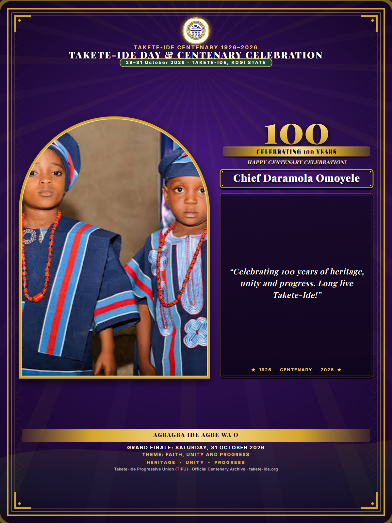
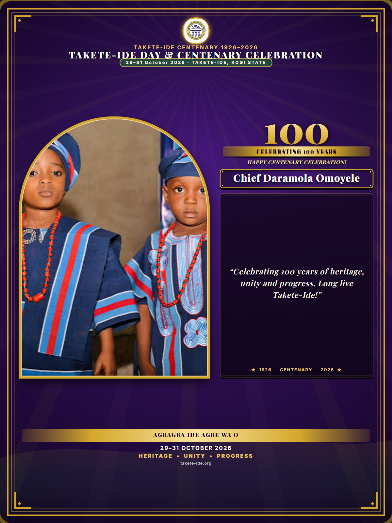
feat(celebration-studio): update 1200x1600 personal celebration poster copy and foundation layout

Changed region(s): [[0.3061, 0.826, 0.7041, 0.9178]]

diff --git a/lib/celebration-studio/poster-renderer.ts b/lib/celebration-studio/poster-renderer.ts
@@ -822,68 +822,62 @@ function drawGrandFoundationRibbons(
   ctx.textAlign = "center";
   ctx.textBaseline = "middle";
 
-  // 1. Curved Gold & Green Ceremonial Ribbon with Local Expression / Motto
-  const expression =
+  // 1. Curved Gold Ceremonial Ribbon with Editable Local Expression / Motto
+  const expression = (
     personalisation.localExpression ||
     personalisation.signOff ||
     template.defaultLocalExpression ||
-    "AGBAGBA IDE AGBE WA O";
+    ""
+  ).trim();
 
-  const ribbonW = width - Math.round(120 * scale);
-  const ribbonH = Math.round(36 * scale);
+  if (expression) {
+    const ribbonW = width - Math.round(120 * scale);
+    const ribbonH = Math.round(36 * scale);
 
-  const ribbonGrad = ctx.createLinearGradient(centerX - ribbonW / 2, 0, centerX + ribbonW / 2, 0);
-  ribbonGrad.addColorStop(0, "rgba(212, 167, 44, 0.15)");
-  ribbonGrad.addColorStop(0.2, "#d4a72c");
-  ribbonGrad.addColorStop(0.5, "#fae39b");
-  ribbonGrad.addColorStop(0.8, "#d4a72c");
-  ribbonGrad.addColorStop(1, "rgba(212, 167, 44, 0.15)");
+    const ribbonGrad = ctx.createLinearGradient(centerX - ribbonW / 2, 0, centerX + ribbonW / 2, 0);
+    ribbonGrad.addColorStop(0, "rgba(212, 167, 44, 0.15)");
+    ribbonGrad.addColorStop(0.2, "#d4a72c");
+    ribbonGrad.addColorStop(0.5, "#fae39b");
+    ribbonGrad.addColorStop(0.8, "#d4a72c");
+    ribbonGrad.addColorStop(1, "rgba(212, 167, 44, 0.15)");
 
-  ctx.fillStyle = ribbonGrad;
-  roundRect(ctx, centerX - ribbonW / 2, currentY, ribbonW, ribbonH, 6 * scale);
-  ctx.fill();
+    ctx.fillStyle = ribbonGrad;
+    roundRect(ctx, centerX - ribbonW / 2, currentY, ribbonW, ribbonH, 6 * scale);
+    ctx.fill();
 
-  ctx.font = `900 ${Math.round(15 * scale)}px "Playfair Display", Georgia, serif`;
-  ctx.fillStyle = "#18062b";
-  ctx.letterSpacing = `${Math.round(2 * scale)}px`;
-  ctx.fillText(expression.toUpperCase(), centerX, currentY + ribbonH / 2);
+    ctx.font = `900 ${Math.round(15 * scale)}px "Playfair Display", Georgia, serif`;
+    ctx.fillStyle = "#18062b";
+    ctx.letterSpacing = `${Math.round(2 * scale)}px`;
+    ctx.fillText(expression.toUpperCase(), centerX, currentY + ribbonH / 2);
 
-  currentY += ribbonH + Math.round(16 * scale);
+    currentY += ribbonH + Math.round(18 * scale);
+  } else {
+    currentY += Math.round(10 * scale);
+  }
 
-  // 2. Grand Finale & Event Date
-  ctx.font = `bold ${Math.round(13.5 * scale)}px Inter, -apple-system, sans-serif`;
+  // 2. Confirmed Event Date: "29–31 OCTOBER 2026"
+  ctx.font = `bold ${Math.round(15 * scale)}px Inter, -apple-system, sans-serif`;
   ctx.fillStyle = "#ffffff";
-  ctx.shadowColor = "rgba(0, 0, 0, 0.8)";
+  ctx.shadowColor = "rgba(0, 0, 0, 0.85)";
   ctx.shadowBlur = 4 * scale;
-  ctx.fillText("GRAND FINALE: SATURDAY, 31 OCTOBER 2026", centerX, currentY);
+  ctx.fillText("29–31 OCTOBER 2026", centerX, currentY);
   ctx.shadowBlur = 0;
-
-  currentY += Math.round(20 * scale);
-
-  // 3. Theme Banner: "THEME: FAITH, UNITY AND PROGRESS"
-  ctx.font = `bold ${Math.round(12.5 * scale)}px Inter, -apple-system, sans-serif`;
-  ctx.fillStyle = "#e8c766";
-  ctx.fillText(`THEME: ${campaign.theme}`, centerX, currentY);
 
   currentY += Math.round(22 * scale);
 
-  // 4. Motto Tagline: "HERITAGE • UNITY • PROGRESS"
-  ctx.font = `900 ${Math.round(12 * scale)}px Inter, -apple-system, sans-serif`;
-  ctx.fillStyle = "#d4a72c";
+  // 3. Motto: "HERITAGE • UNITY • PROGRESS"
+  ctx.font = `900 ${Math.round(14 * scale)}px Inter, -apple-system, sans-serif`;
+  ctx.fillStyle = "#e8c766";
   ctx.letterSpacing = `${Math.round(3 * scale)}px`;
   ctx.fillText("HERITAGE  •  UNITY  •  PROGRESS", centerX, currentY);
 
-  currentY += Math.round(18 * scale);
+  currentY += Math.round(20 * scale);
 
-  // 5. Official Verification Citation
-  ctx.font = `500 ${Math.round(10.5 * scale)}px Inter, -apple-system, sans-serif`;
-  ctx.fillStyle = "rgba(255, 255, 255, 0.7)";
-  ctx.letterSpacing = "0.5px";
-  ctx.fillText(
-    "Takete-Ide Progressive Union (TIPU) · Official Centenary Archive · takete-ide.org",
-    centerX,
-    currentY
-  );
+  // 4. Community Portal Link
+  ctx.font = `500 ${Math.round(11 * scale)}px Inter, -apple-system, sans-serif`;
+  ctx.fillStyle = "rgba(255, 255, 255, 0.75)";
+  ctx.letterSpacing = "1px";
+  ctx.fillText("takete-ide.org", centerX, currentY);
 
   ctx.restore();
 }
